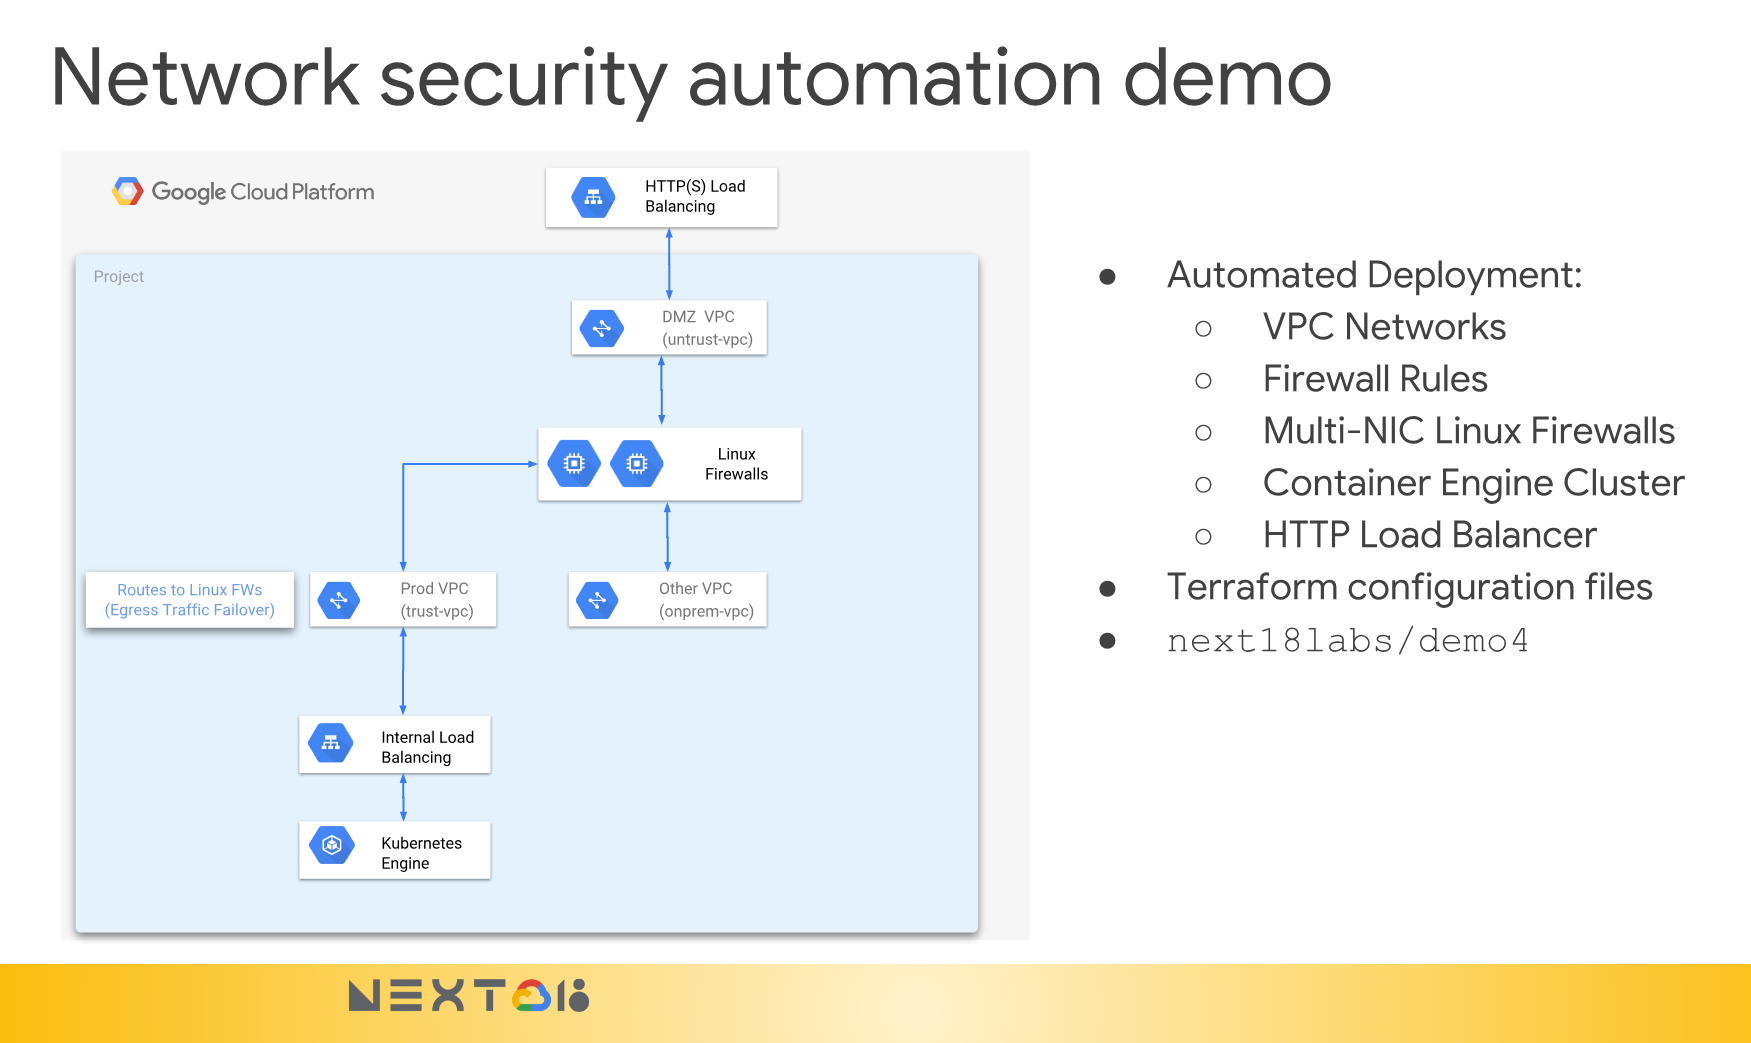
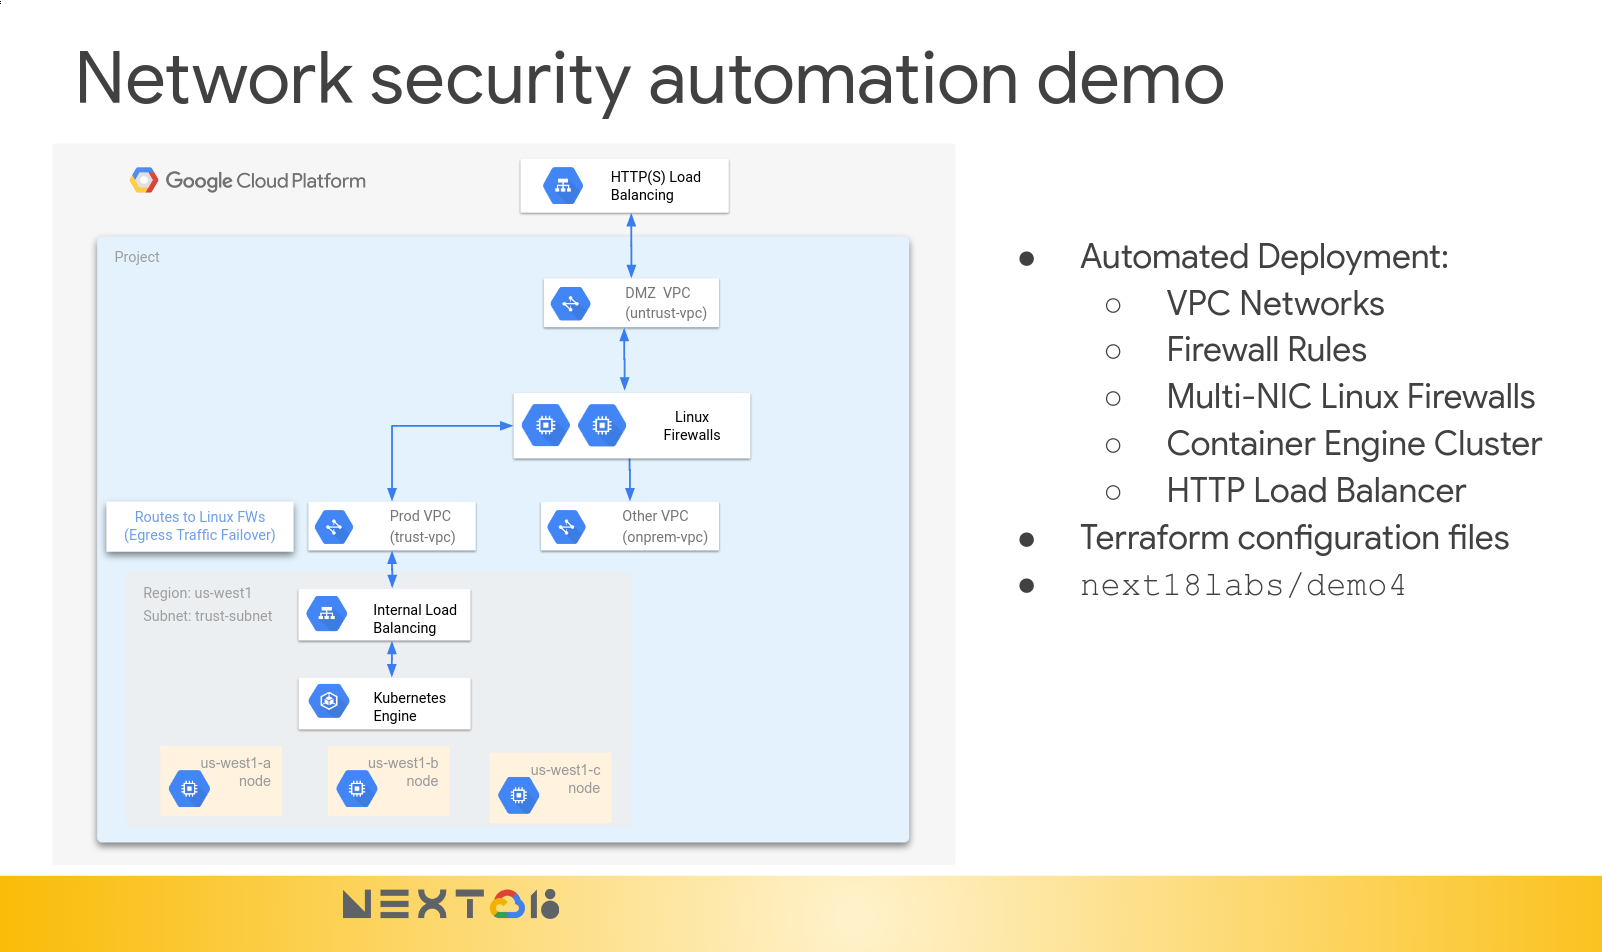
Improve arch diagram.

diff --git a/demo4/README.md b/demo4/README.md
@@ -10,8 +10,8 @@ This demo creates:
 *   1 GKE cluster named `primary-gkecluster` with a node running in each of
     `us-west1-a`, `us-west1-b`, and `us-west1-c`.
 *   1 Global HTTP load balancer to handle the public IP.
-*   GKE also creates a regional TCP network load balancer in `trust-vpc` in
-    `us-west1`.
+*   GKE also creates 1 regional/internal TCP layer 4 load balancer in
+    `trust-vpc` in `us-west1`.
 
 ## How?
 
